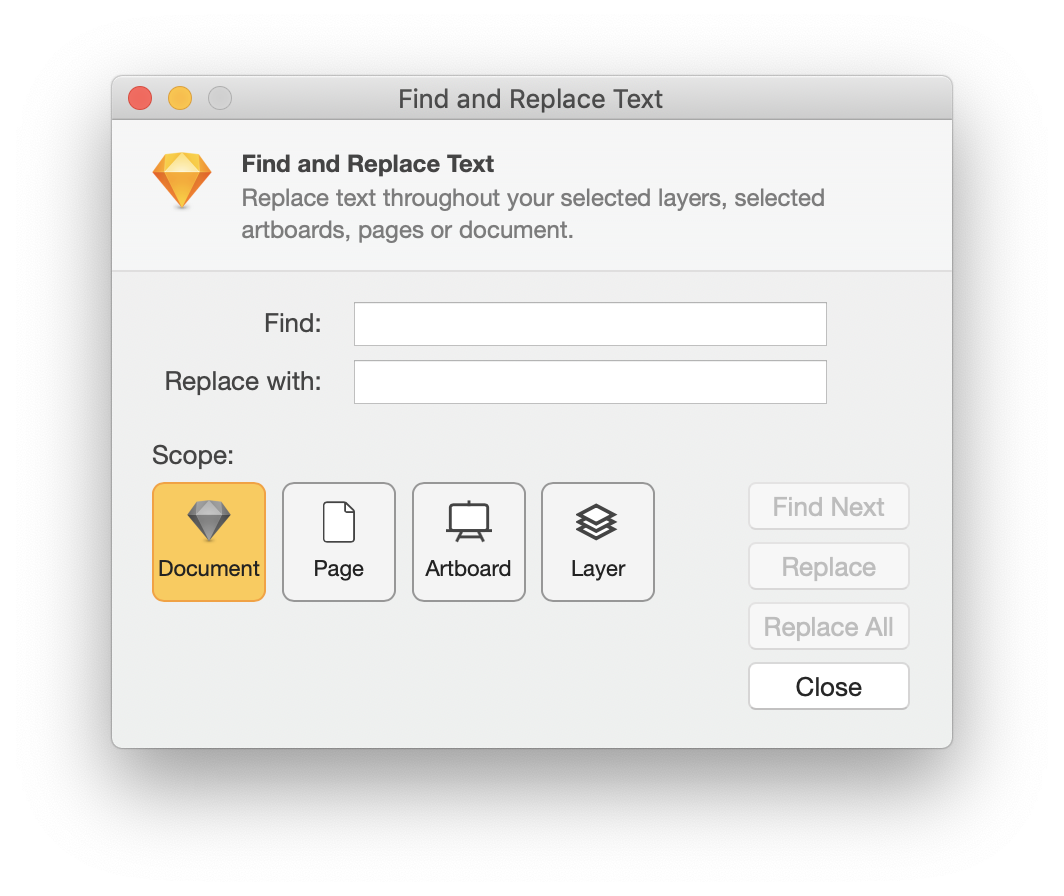
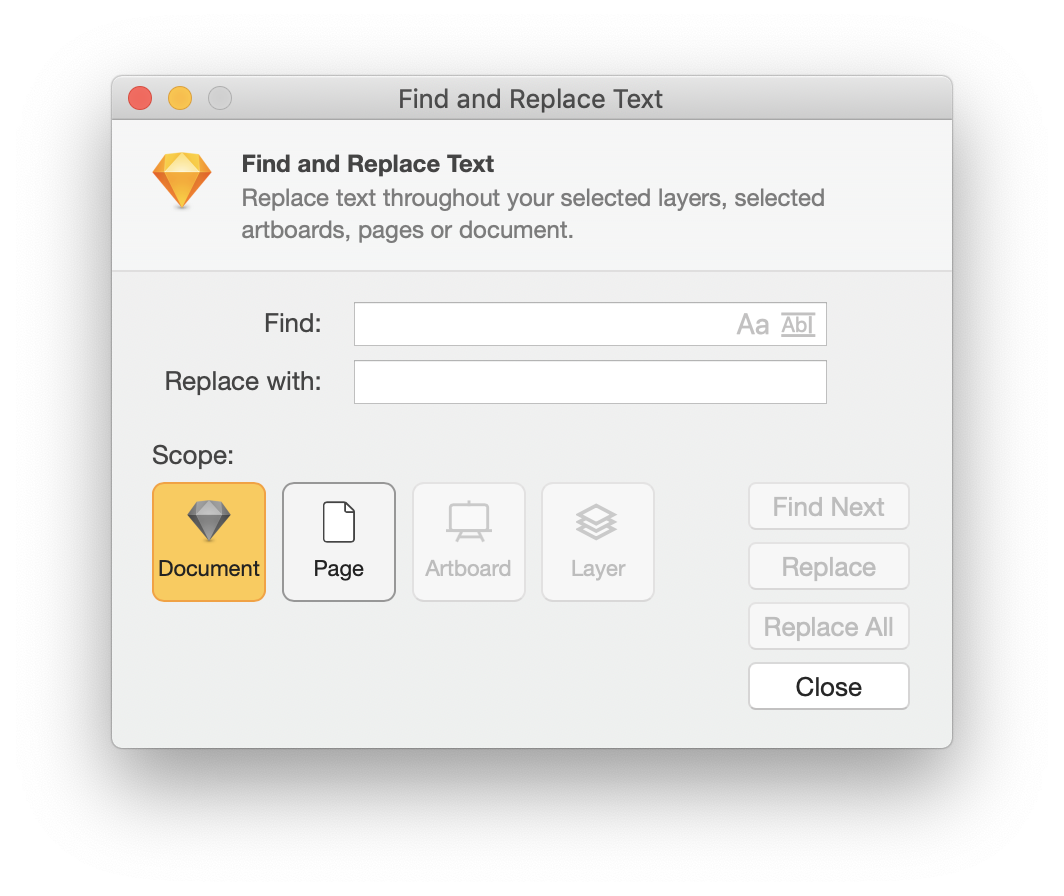
Search options ui tweak (#9)
* Added search options styling for light mode

* Screenshot update

diff --git a/resources/styles.light.css b/resources/styles.light.css
@@ -48,3 +48,13 @@ p {
   border: 1px #FB9F27 solid;
   background: rgba(255, 201, 67, 0.98);
 }
+
+.icon-caseSensitive, .icon-wholeWord {
+  border: 1px solid #FFF;
+  color: #C2C1C1;
+}
+
+.icon-caseSensitive.active, .icon-wholeWord.active {
+  border: 1px solid #FB9F27;
+  color: #262626;
+}
